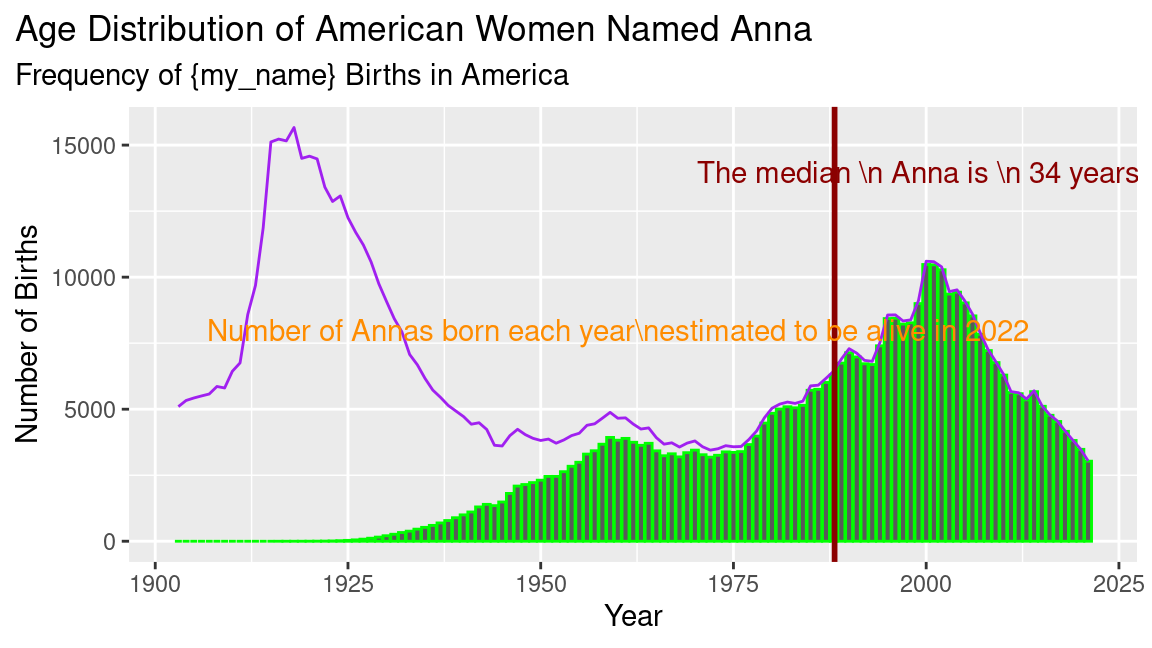
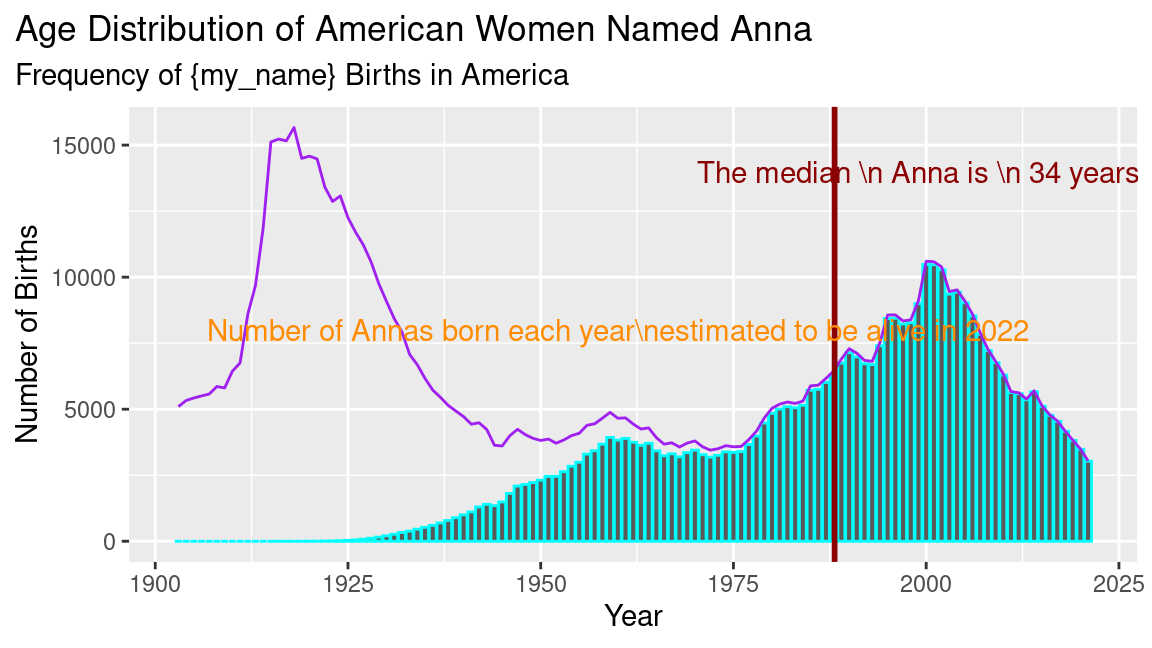
Change from green to cyan

Changed region(s): [[0.1562, 0.4012, 0.9688, 0.8642]]

diff --git a/projects/project-02/project-02-estimate-age-from-name.md b/projects/project-02/project-02-estimate-age-from-name.md
@@ -371,7 +371,7 @@ plot_estimated_age <- function(tbl, my_name, my_sex) {
     # Initialize a ggplot with x = year
     ggplot(aes(x = year)) +
     # Add a column layer with y = nb_alive, and appropriate colors
-    geom_col(aes(y = nb_alive), color = "green") +
+    geom_col(aes(y = nb_alive), color = "cyan") +
     # Add a line layer with y = nb_births, and appropriate colors
     geom_line(aes(y = nb_births), color = "purple") +
     # Add a vertical line for the median age
